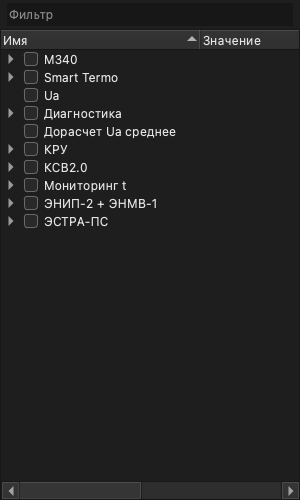
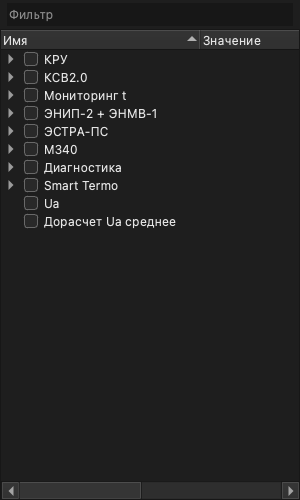
client: the Explorer's rows sort by the comparator that was installed, not the one Qt fell back to (V43)
`Tree::SetCompareHandler` invalidated the filter and not the sort. Qt is
explicit that these differ -- invalidateFilter() "Invalidates the current
filtering", invalidate() "Invalidates the current sorting and filtering"
(https://doc.qt.io/qt-6/qsortfilterproxymodel.html, verified 2026-09-12) -- so
rows already sorted kept whatever comparator had ordered them.

For the Explorer that is never a harmless default, because of the order
ConfigurationTreeView builds in: it attaches the model, calls SetSorted(true),
which sorts immediately, and installs the comparator twelve lines later. Every
row resident by then -- all of them whenever the nodes are already in the node
service -- was ordered by QSortFilterProxyModel's own lessThan, i.e. by
DisplayRole string. Rows arriving afterwards WERE placed by the real
comparator, into an array sorted by the wrong one, which is what made the
result look arbitrary rather than merely alphabetical.

So devices.png had been rendering one flat alphabetical run, Latin before
Cyrillic, with its two data-item rows among the containers instead of grouped
below them. It now reads КРУ, КСВ2.0, Мониторинг t, ЭНИП-2 + ЭНМВ-1, ЭСТРА-ПС
(type SCADA.62), М340 (.108), Диагностика (.115), Smart Termo (.118), then the
two data items -- class, then type, then name, as CompareNodes asks --
byte-identical across two renders.

The fix is one line in the shared widget rather than a reorder at the call
[…]

diff --git a/aui/qt/tree_unittest.cpp b/aui/qt/tree_unittest.cpp
@@ -126,6 +126,40 @@ TEST_F(TreeTest, InstallingTheComparatorReordersRowsAlreadyPresent) {
             (std::vector<std::u16string>{u"Alpha", u"Bravo", u"Charlie"}));
 }
 
+// The same requirement in the sequence the Explorer actually runs, which is
+// what the test above does NOT reproduce: there the rows exist before the Tree
+// does, so they arrive through setSourceModel. ConfigurationTreeView instead
+// attaches an EMPTY model, and the rows land while it is being built -- as they
+// do whenever the nodes are already resident in the node service -- so
+// SetSorted(true) finds rows to sort and sorts them under Qt's own lessThan,
+// i.e. by DisplayRole string.
+//
+// Sorting by name is the failure mode here, not the intent: the comparator this
+// installs groups the two Zulu rows together ahead of Alpha, and a name sort
+// splits them. Measured on the screenshot fixture before the fix, 100
+// comparisons ran with no comparator installed and devices.png came out
+// name-ordered (visual_review V43).
+TEST_F(TreeTest, RowsArrivingBeforeTheComparatorAreStillReordered) {
+  auto model = std::make_shared<MutableTreeModel>();
+  Tree tree{model};
+
+  // Resident rows, added between the model being attached and the sort being
+  // switched on. A leading group flag that disagrees with the name order is
+  // what makes a fallback name sort visible.
+  MutableTreeModel::Row* alpha = model->AddRow(u"Alpha");
+  MutableTreeModel::Row* zulu_one = model->AddRow(u"Zulu 1");
+  MutableTreeModel::Row* zulu_two = model->AddRow(u"Zulu 2");
+  alpha->is_leaf = true;
+  zulu_one->is_leaf = false;
+  zulu_two->is_leaf = false;
+
+  tree.SetSorted(true);
+  tree.SetCompareHandler(&CompareByGroupThenText);
+
+  EXPECT_EQ(VisibleTexts(tree, *model),
+            (std::vector<std::u16string>{u"Zulu 1", u"Zulu 2", u"Alpha"}));
+}
+
 // The Explorer's rows are inserted before their display names arrive, so every
 // row is first compared under a placeholder and then renamed. The order the
 // operator ends up with must be the order of the final names and must not

diff --git a/aui/qt/tree.cpp b/aui/qt/tree.cpp
@@ -40,7 +40,25 @@ class TreeProxyModel : public QSortFilterProxyModel {
 
 void TreeProxyModel::SetCompareHandler(TreeCompareHandler handler) {
   compare_handler_ = std::move(handler);
-  invalidateFilter();
+  // `invalidate()`, not `invalidateFilter()`: changing the comparator changes
+  // the SORT, and Qt is explicit that the narrower call does not touch it --
+  // "Invalidates the current filtering" against invalidate()'s "Invalidates the
+  // current sorting and filtering"
+  // (https://doc.qt.io/qt-6/qsortfilterproxymodel.html, verified 2026-09-12).
+  //
+  // Rows already in the model keep whatever order they were sorted into
+  // otherwise, and for the Explorer that is never a harmless default:
+  // ConfigurationTreeView attaches the model, calls SetSorted(true) -- which
+  // sorts immediately -- and only then installs the comparator, so every row
+  // resident at construction was ordered by QSortFilterProxyModel's own
+  // lessThan, i.e. by DisplayRole string. Measured on the screenshot fixture:
+  // 100 comparisons ran with no comparator installed, which is why devices.png
+  // came out as one flat alphabetical run (Latin before Cyrillic) with its
+  // variable rows among the objects instead of grouped below them, and why rows
+  // arriving later -- placed by the real comparator into an array sorted by the
+  // wrong one -- made the result look arbitrary rather than merely different
+  // (visual_review V43).
+  invalidate();
 }
 
 // The model's one top-level row is the tree's root, and it is never filtered
